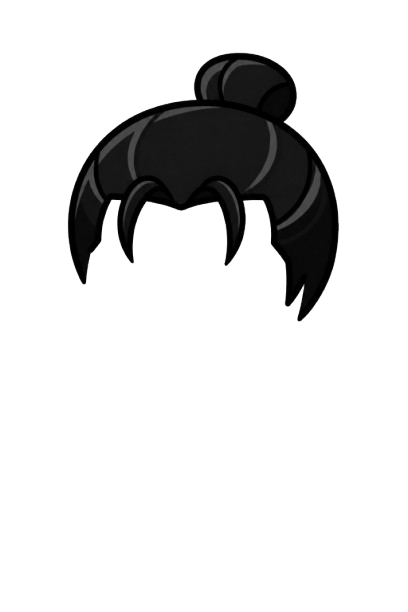
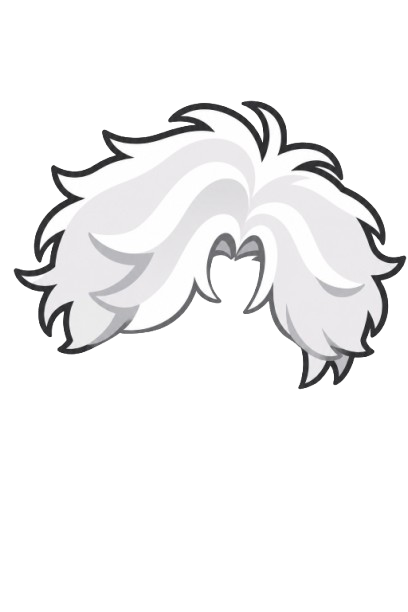
調整換裝介面

Changed region(s): [[0.0294, 0.0621, 1.0, 0.652]]

diff --git a/src/pages/AvatarDressup.jsx b/src/pages/AvatarDressup.jsx
@@ -169,86 +169,88 @@ function AvatarDressup() {
           </div>
         </div>
 
-        <div className="avatar-tabs">
-          {AVATAR_CATEGORIES.map((category) => (
-            <button
-              key={category.key}
-              className={`avatar-tab ${
-                activeCategory === category.key ? "active" : ""
-              }`}
-              onClick={() => setActiveCategory(category.key)}
-              aria-label={category.label}
-              title={category.label}
-            >
-              <CategoryIcon type={category.key} />
-              <span>{category.label}</span>
-            </button>
-          ))}
-        </div>
-
-        <div className="avatar-item-grid">
-          {activeItems.map((item) => {
-            const active = avatarConfig[activeCategory] === item.id;
-            const frontSetting = getItemSetting(itemSettings, item.id, "front");
-            const backSetting = getItemSetting(itemSettings, item.id, "back");
-            const showBackThumb = backSetting.show_thumb !== false;
-
-            return (
+        <div className="avatar-dressup-controls">
+          <div className="avatar-tabs">
+            {AVATAR_CATEGORIES.map((category) => (
               <button
-                key={item.id}
-                className={`avatar-item-card ${active ? "active" : ""}`}
-                onClick={() => selectItem(activeCategory, item.id)}
-                aria-label={item.label}
-                title={item.label}
+                key={category.key}
+                className={`avatar-tab ${
+                  activeCategory === category.key ? "active" : ""
+                }`}
+                onClick={() => setActiveCategory(category.key)}
+                aria-label={category.label}
+                title={category.label}
               >
-                <span className="avatar-item-thumb">
-                  {item.backImg && showBackThumb && (
+                <CategoryIcon type={category.key} />
+                <span>{category.label}</span>
+              </button>
+            ))}
+          </div>
+
+          <div className="avatar-item-grid">
+            {activeItems.map((item) => {
+              const active = avatarConfig[activeCategory] === item.id;
+              const frontSetting = getItemSetting(itemSettings, item.id, "front");
+              const backSetting = getItemSetting(itemSettings, item.id, "back");
+              const showBackThumb = backSetting.show_thumb !== false;
+
+              return (
+                <button
+                  key={item.id}
+                  className={`avatar-item-card ${active ? "active" : ""}`}
+                  onClick={() => selectItem(activeCategory, item.id)}
+                  aria-label={item.label}
+                  title={item.label}
+                >
+                  <span className="avatar-item-thumb">
+                    {item.backImg && showBackThumb && (
+                      <img
+                        src={item.backImg}
+                        alt=""
+                        style={{
+                          transform: thumbTransform(backSetting),
+                        }}
+                      />
+                    )}
                     <img
-                      src={item.backImg}
+                      src={item.frontImg}
                       alt=""
                       style={{
-                        transform: thumbTransform(backSetting),
+                        transform: thumbTransform(frontSetting),
                       }}
                     />
-                  )}
-                  <img
-                    src={item.frontImg}
-                    alt=""
-                    style={{
-                      transform: thumbTransform(frontSetting),
-                    }}
-                  />
-                  {item.thumbImg && (
-                    <img
-                      className="avatar-item-custom-thumb"
-                      src={item.thumbImg}
-                      alt=""
-                      onError={(event) => {
-                        event.currentTarget.style.display = "none";
-                      }}
-                    />
-                  )}
-                </span>
-              </button>
-            );
-          })}
-        </div>
+                    {item.thumbImg && (
+                      <img
+                        className="avatar-item-custom-thumb"
+                        src={item.thumbImg}
+                        alt=""
+                        onError={(event) => {
+                          event.currentTarget.style.display = "none";
+                        }}
+                      />
+                    )}
+                  </span>
+                </button>
+              );
+            })}
+          </div>
 
-        <div className="avatar-dressup-actions">
-          <button
-            className="avatar-dressup-btn primary"
-            onClick={saveAvatar}
-            disabled={saving}
-          >
-            {saving ? "儲存中..." : "儲存替身"}
-          </button>
+          <div className="avatar-dressup-actions">
+            <button
+              className="avatar-dressup-btn primary"
+              onClick={saveAvatar}
+              disabled={saving}
+            >
+              {saving ? "儲存中..." : "儲存替身"}
+            </button>
 
-          <button
-            className="avatar-dressup-btn secondary"
-            onClick={() => navigate("/profile")}
-          >
-            取消
-          </button>
+            <button
+              className="avatar-dressup-btn secondary"
+              onClick={() => navigate("/profile")}
+            >
+              取消
+            </button>
+          </div>
         </div>
       </div>
     </div>

diff --git a/src/styles/AvatarDressup.css b/src/styles/AvatarDressup.css
@@ -16,8 +16,8 @@
   height: 100%;
   max-width: 640px;
   background: transparent !important;
-  border: 1px solid rgba(255, 255, 255, 0.12);
-  backdrop-filter: blur(18px);
+  border: 0 !important;
+  backdrop-filter: none !important;
   border-radius: 24px;
   padding: 0;
   overflow: hidden;
@@ -25,9 +25,7 @@
   flex-direction: column;
   container-type: inline-size;
   color: white;
-  box-shadow:
-    0 12px 32px rgba(0, 0, 0, 0.35),
-    0 0 40px rgba(16, 185, 129, 0.1);
+  box-shadow: none !important;
 }
 
 .avatar-dressup-preview {
@@ -38,6 +36,18 @@
   min-height: 260px;
   padding: 20px 24px 0;
   background: transparent !important;
+}
+
+.avatar-dressup-controls {
+  display: flex;
+  flex: 1 1 auto;
+  min-height: 0;
+  flex-direction: column;
+  overflow: hidden;
+  background: rgba(3, 10, 24, 0.88);
+  border: 1px solid rgba(255, 255, 255, 0.12);
+  border-radius: 20px;
+  box-shadow: 0 14px 34px rgba(0, 0, 0, 0.28);
 }
 
 .avatar-dressup-stage {
@@ -208,7 +218,7 @@
   grid-template-columns: 1fr 1fr;
   gap: 14px;
   padding: 12px 28px 20px;
-  margin-top: auto;
+  margin-top: 0;
   background: rgba(3, 10, 24, 0.82);
   border-top: 1px solid rgba(255, 255, 255, 0.08);
 }
@@ -247,10 +257,19 @@
     border-radius: 0;
   }
 
+  .avatar-dressup-controls {
+    display: flex;
+    flex: 0 0 auto;
+    border-radius: 18px;
+  }
+
   .avatar-dressup-preview {
     height: clamp(235px, 30dvh, 270px);
     min-height: clamp(235px, 30dvh, 270px);
     padding-inline: 12px;
+    border: 1px solid rgba(255, 255, 255, 0.1);
+    border-radius: 18px;
+    margin-bottom: 14px;
   }
 
   .avatar-dressup-stage {
@@ -266,12 +285,14 @@
   .avatar-dressup-actions {
     grid-template-columns: 1fr 1fr;
     gap: 10px;
-    padding: 10px 16px 16px;
-    margin-top: auto;
+    padding: 12px 16px 16px;
+    margin-top: 0;
+    border-top: 1px solid rgba(255, 255, 255, 0.08);
   }
 
   .avatar-tabs {
-    padding: 14px 12px 6px;
+    padding: 18px 12px 8px;
+    border-bottom: 1px solid rgba(255, 255, 255, 0.1);
   }
 
   .avatar-tab {
@@ -297,6 +318,19 @@
     --avatar-grid-gap: 10px;
     --avatar-grid-padding-x: 16px;
     --avatar-grid-padding-y: 14px;
+    height: calc(
+      var(--avatar-grid-cell-size) + var(--avatar-grid-cell-size) +
+        var(--avatar-grid-cell-size) + var(--avatar-grid-gap) +
+        var(--avatar-grid-gap) + var(--avatar-grid-padding-y) +
+        var(--avatar-grid-padding-y)
+    );
+    min-height: calc(
+      var(--avatar-grid-cell-size) + var(--avatar-grid-cell-size) +
+        var(--avatar-grid-cell-size) + var(--avatar-grid-gap) +
+        var(--avatar-grid-gap) + var(--avatar-grid-padding-y) +
+        var(--avatar-grid-padding-y)
+    );
+    align-content: start;
   }
 
   .avatar-dressup-btn {
@@ -313,19 +347,30 @@
   .avatar-dressup-card {
     max-width: 1180px;
     display: grid;
-    grid-template-columns: minmax(220px, 0.85fr) minmax(0, 1.35fr);
-    grid-template-rows: auto minmax(0, 1fr) auto;
+    grid-template-columns: minmax(260px, 0.85fr) minmax(0, 1.35fr);
+    grid-template-rows: minmax(0, 1fr);
+    gap: clamp(20px, 2.5vw, 36px);
+    overflow: visible;
   }
 
   .avatar-dressup-preview {
     grid-column: 1;
-    grid-row: 1 / 4;
+    grid-row: 1;
     width: 100%;
     height: 100%;
     min-height: 0;
     padding: clamp(12px, 2.5dvh, 28px);
     box-sizing: border-box;
-    border-right: 1px solid rgba(255, 255, 255, 0.1);
+    border-right: 0;
+  }
+
+  .avatar-dressup-controls {
+    grid-column: 2;
+    grid-row: 1;
+    display: grid;
+    grid-template-rows: auto minmax(0, 1fr) auto;
+    min-width: 0;
+    height: 100%;
   }
 
   .avatar-dressup-stage {
@@ -339,9 +384,9 @@
   }
 
   .avatar-tabs {
-    grid-column: 2;
+    grid-column: 1;
     grid-row: 1;
-    padding: clamp(24px, 4dvh, 36px) clamp(16px, 2.5vw, 28px) 10px;
+    padding: clamp(38px, 6dvh, 54px) clamp(16px, 2.5vw, 28px) 10px;
   }
 
   .avatar-tab {
@@ -363,7 +408,7 @@
     --avatar-grid-gap: clamp(8px, 1.4dvh, 14px);
     --avatar-grid-padding-x: clamp(14px, 2vw, 24px);
     --avatar-grid-padding-y: clamp(10px, 1.8dvh, 18px);
-    grid-column: 2;
+    grid-column: 1;
     grid-row: 2;
     height: 100%;
     max-height: none;
@@ -384,7 +429,7 @@
   }
 
   .avatar-dressup-actions {
-    grid-column: 2;
+    grid-column: 1;
     grid-row: 3;
     margin-top: 0;
     padding: 10px clamp(14px, 2vw, 24px) clamp(12px, 2dvh, 20px);

diff --git a/src/utils/avatarItemSettings.js b/src/utils/avatarItemSettings.js
@@ -105,9 +105,9 @@ export const DEFAULT_AVATAR_ITEM_SETTINGS = {
     "show_thumb": true
   },
   "hair-6_front": {
-    "scale": 0.85,
+    "scale": 0.87,
     "x_pct": -2.15,
-    "y_pct": -16.2,
+    "y_pct": -16.7,
     "thumb_scale": 1.04,
     "thumb_x_pct": 0,
     "thumb_y_pct": 4.05,
@@ -431,12 +431,12 @@ export const DEFAULT_AVATAR_ITEM_SETTINGS = {
     "show_thumb": false
   },
   "hair-13_front": {
-    "scale": 0.92,
-    "x_pct": 0,
-    "y_pct": -3.6,
-    "thumb_scale": 1.17,
-    "thumb_x_pct": 0,
-    "thumb_y_pct": 17.9,
+    "scale": 0.85,
+    "x_pct": -2.15,
+    "y_pct": -13.8,
+    "thumb_scale": 0.99,
+    "thumb_x_pct": -1.75,
+    "thumb_y_pct": 6.25,
     "show_thumb": true
   },
   "hair-14_back": {
@@ -460,7 +460,7 @@ export const DEFAULT_AVATAR_ITEM_SETTINGS = {
   "hair-15_front": {
     "scale": 1,
     "x_pct": 0,
-    "y_pct": -2.15,
+    "y_pct": -2.65,
     "thumb_scale": 0.87,
     "thumb_x_pct": 0,
     "thumb_y_pct": 0,
@@ -504,7 +504,7 @@ export const DEFAULT_AVATAR_ITEM_SETTINGS = {
   },
   "face-11_front": {
     "scale": 0.54,
-    "x_pct": -1.65,
+    "x_pct": -2.15,
     "y_pct": -5.05,
     "thumb_scale": 1,
     "thumb_x_pct": 0,